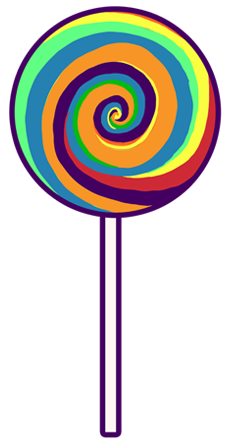
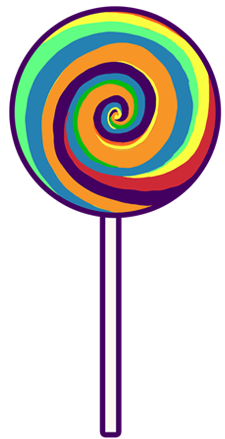
Lollipop + background

diff --git a/GreenBanana/Lollipop.cpp b/GreenBanana/Lollipop.cpp
@@ -2,6 +2,8 @@
 
 Lollipop::Lollipop(std::string type, std::string name, float x, float y, bool worldSpace, bool isStatic, int depth)
 {
+	//std::srand(std::time(0));
+	
 	SetType(type);
 	SetName(name);
 	SetPosition(sf::Vector2f(x, y));
@@ -9,18 +11,27 @@ Lollipop::Lollipop(std::string type, std::string name, float x, float y, bool wo
 	SetIsStatic(isStatic);
 	SetDepth(depth);
 
-	// set the floor sprite
-	Animation idle;
-	SpritesheetLoader loader;
-	idle.sprites = loader.Load("Resources/Objects/Environment/Lollipop1.png", 230, 443, 1);
-	idle.endEvent = Animation::AnimationEndEvent::HoldLastFrame;
+	int i = (std::rand() % 8) + 1;
+	std::stringstream ss;
+	ss << "Resources/Objects/Environment/Lollypop";
+	ss << i;
+	ss << ".png";
 
-	animations.animations["idle"] = idle;
-	animations.SwitchAnimations("idle");
+	std::srand(std::rand());
+
+
+	Animation walk;
+	SpritesheetLoader loader;
+	walk.sprites = loader.Load(ss.str(), 225, 439, 1);
+	walk.endEvent = Animation::AnimationEndEvent::HoldLastFrame;
+	walk.globalSpeed = 0.02;
+	animations.animations["walk"] = walk;
+	animations.SwitchAnimations("walk");
+
 
 	collider = new BoxCollider();
-	collider->size = sf::Vector2f(animations.curSprite->width, animations.curSprite->height);
-	collider->isTrigger = false;
+	collider->size = sf::Vector2f(230, 443);
+	collider->isTrigger = true;
 }
 
 Lollipop::~Lollipop()

diff --git a/GreenBanana/LevelBackground.cpp b/GreenBanana/LevelBackground.cpp
@@ -13,12 +13,11 @@ LevelBackground::LevelBackground(std::string type, std::string name, float x, fl
 	Animation idle;
 	SpritesheetLoader loader;
 	idle.sprites = loader.Load("Resources/Backgrounds/BG_w_cloud.png", 2048, 2048, 1);
-	/*idle.sprites[0]->sprite->setScale(sf::Vector2f((3508 / 720), (2480 / 480)));
-	idle.sprites[0]->width = 720;
-	idle.sprites[0]->height = 480;
-	*/idle.endEvent = Animation::AnimationEndEvent::HoldLastFrame;
+	idle.endEvent = Animation::AnimationEndEvent::HoldLastFrame;
 	animations.animations["idle"] = idle;
 	animations.SwitchAnimations("idle");
+
+	ScaleSprites(animations.animations, sf::Vector2f(720 * 2, 480 * 2));
 
 	collider = new BoxCollider();
 	collider->size = sf::Vector2f(3.0f, 3.0f);

diff --git a/GreenBanana/Lollipop.h b/GreenBanana/Lollipop.h
@@ -1,6 +1,9 @@
 #ifndef LOLLIPOP_H
 #define LOLLIPOP_H
+#include <ctime>
+#include <specstrings.h>
 #include "Gameobject.h"
+
 class Lollipop :
 	public Gameobject
 {
